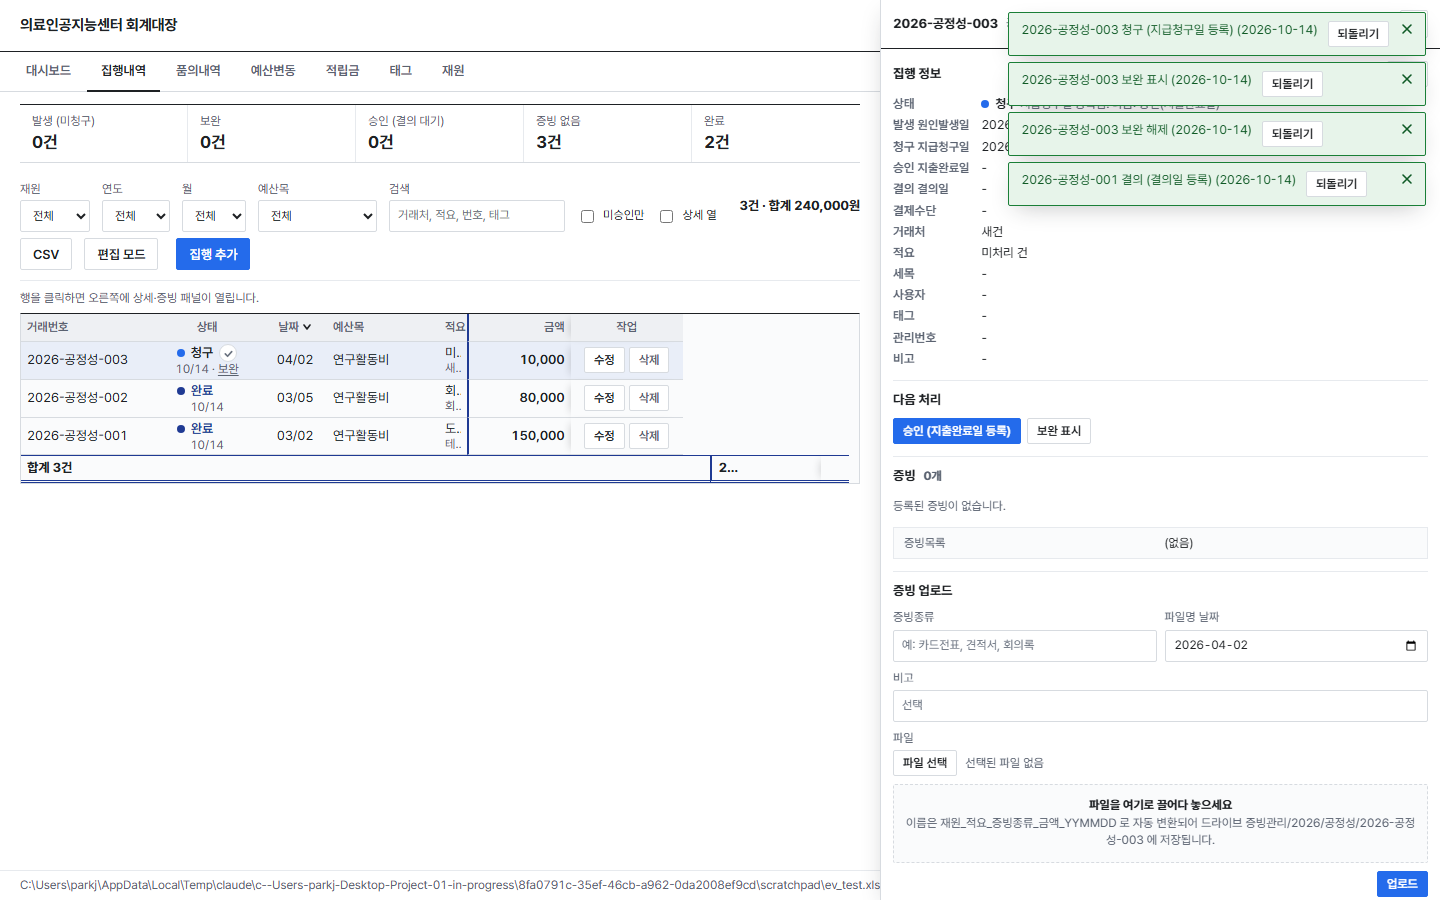
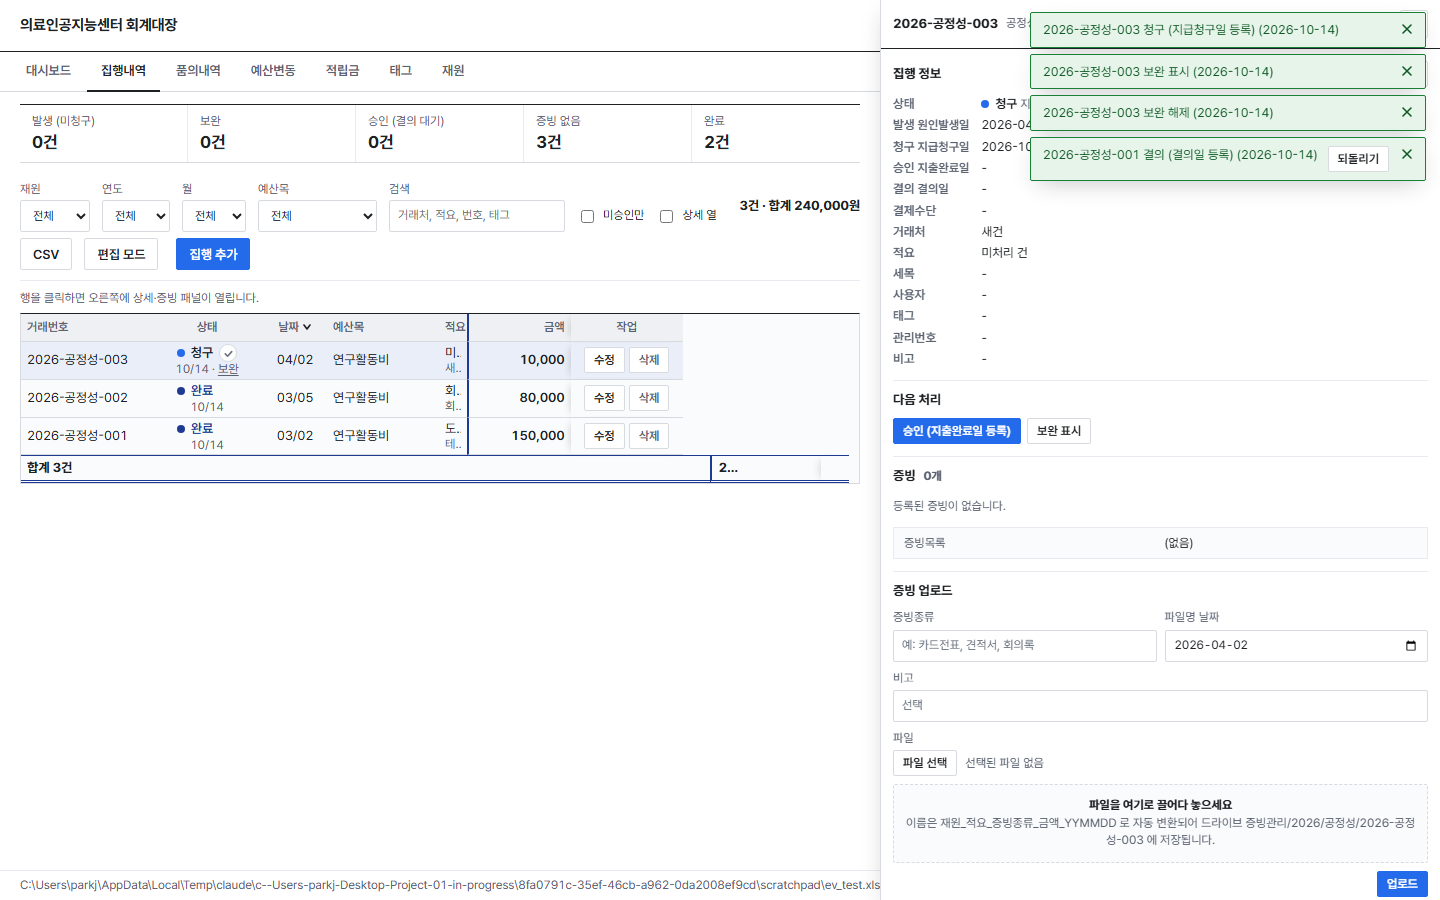
P0 수정: 폼 이중 제출 가드, 되돌리기 write_id 대조, 드로어 응답 경합 차단, 전체 행 스냅샷 충돌 검사, 탭 복귀 시 변경 감지
- store: LAST_WRITE.id, undo_last(write_id) 불일치 거부, _check_expect 가 expect._snapshot 전 열 비교
- main: X-Write-Id 응답 헤더, GET /api/meta
- app.js: api()가 write id 추적·이전 되돌리기 버튼 제거·한국어 오류, expectOf 스냅샷 포함, 폼/확정/일괄 생성 busy 가드, 드로어 seq, localStorage try/catch, visibilitychange 자동 새로고침
- style: --alert-deep 등 누락 토큰 정의

Changed region(s): [[0.6875, 0.0, 1.0, 0.2489]]

diff --git a/app/static/labor.js b/app/static/labor.js
@@ -197,10 +197,12 @@ function laborConfirm(row) {
 $("#dlg-pay-form").addEventListener("submit", async e => {
   e.preventDefault();
   const d = $("#dlg-pay"), row = Number(d.dataset.row), r = DATA.labor.find(x => x._row === row);
+  if (d.dataset.busy) return; d.dataset.busy = "1"; const payBtn = d.querySelector("button[type=submit]"); payBtn.disabled = true;
   try {
     const res = await api("POST", `/api/labor/${row}/action`, { action: "confirm", pay_date: $("#pay-date").value, expect: expectOf("labor", r) });
     d.close(); showAlert(`확정했습니다. 집행 ${res["연결거래번호"]} 생성`, "ok"); await load(); refreshCellDialog();
   } catch (err) { showAlert("확정 실패: " + err.message, "error"); }
+  finally { delete d.dataset.busy; payBtn.disabled = false; }
 });
 $("#dlg-pay-cancel").addEventListener("click", () => $("#dlg-pay").close());
 async function laborUnconfirm(row) {
@@ -307,7 +309,7 @@ $("#dlg-bulk-form").addEventListener("submit", async e => {
   const { out, dup } = bulkPlanRows();
   if (out.length > 1200) return showAlert("한 번에 1,200건까지만 생성할 수 있습니다.", "warn");
   if (dup.length === out.length) return showAlert("모든 건이 이미 있어 추가할 것이 없습니다.", "warn");
-  const btn = $("#bulk-save"); btn.disabled = true;
+  const btn = $("#bulk-save"); if (btn.disabled) return; btn.disabled = true;
   try { const res = await api("POST", "/api/labor/bulk", { rows: out, skip_dup: true }); $("#dlg-bulk").close(); showAlert(`예정 ${res.created}건을 추가했습니다.` + (res.skipped.length ? ` 이미 있는 ${res.skipped.length}건은 건너뛰었습니다.` : ""), "ok"); await load(); }
   catch (err) { showAlert("생성 실패: " + err.message, "error"); }
   finally { btn.disabled = false; }

diff --git a/app/static/style.css b/app/static/style.css
@@ -4,6 +4,7 @@
   --ink: #1E2124;
   --ink-2: #5A6270;
   --ink-3: #6B7380;
+  --alert-deep: #7A1710; --ok-deep: #0F5A26; --rule-hover: #B8BFC9; --dot-idle: #A3A9B3;
   --bg: #FFFFFF;
   --bg-table: #FAFBFC;
   --bg-head: #EEF0F3;

diff --git a/app/store.py b/app/store.py
@@ -3,6 +3,7 @@ from __future__ import annotations
 
 import contextlib
 import hashlib
+import uuid
 import datetime as dt
 import os
 import re
@@ -384,12 +385,19 @@ def _file_hash() -> str:
 LAST_WRITE: dict | None = None
 
 
-def undo_last() -> dict:
-    """직전 저장 직전의 백업으로 장부를 되돌린다. 이후 다른 변경(다른 창·MCP·엑셀)이 있으면 거부."""
+def last_write_id() -> str | None:
+    return LAST_WRITE.get("id") if LAST_WRITE else None
+
+
+def undo_last(write_id: str | None = None) -> dict:
+    """직전 저장 직전의 백업으로 장부를 되돌린다. 이후 다른 변경(다른 창·MCP·엑셀)이 있으면 거부.
+    write_id 가 오면 그 쓰기가 아직 '직전 쓰기'일 때만 되돌린다 (오래된 토스트가 다른 변경을 되돌리지 않도록)."""
     global LAST_WRITE
     with _lock, _file_lock():
         if not LAST_WRITE or not Path(LAST_WRITE["backup"]).exists():
             raise ValueError("되돌릴 직전 변경이 없습니다.")
+        if write_id and write_id != LAST_WRITE.get("id"):
+            raise ValueError("그 뒤에 다른 변경이 있어 이 변경은 되돌릴 수 없습니다. 필요하면 app/backup 의 백업 파일로 복원하세요.")
         if _file_hash() != LAST_WRITE["after"]:
             raise ValueError("그 뒤에 장부가 다시 바뀌어 되돌릴 수 없습니다. 목록을 새로고침하세요.")
         _check_writable()
@@ -419,7 +427,7 @@ def _save(wb):
     try:
         wb.save(tmp)
         os.replace(tmp, XLSX_PATH)
-        LAST_WRITE = {"backup": str(backup), "after": _file_hash(), "at": dt.datetime.now().isoformat(timespec="seconds")}
+        LAST_WRITE = {"backup": str(backup), "after": _file_hash(), "at": dt.datetime.now().isoformat(timespec="seconds"), "id": uuid.uuid4().hex[:12]}
     except PermissionError as e:
         tmp.unlink(missing_ok=True)
         raise LedgerLocked("장부 파일에 쓸 수 없습니다. 다른 프로그램에서 열려 있는지 확인하세요.") from e
@@ -568,13 +576,27 @@ def _ident(kind: str, rec: dict) -> dict:
     return {c: _cell_out(c, rec.get(c)) for c in IDENT_COLS[kind]}
 
 
+def _norm_cmp(c: str, v) -> str:
+    v = _cell_out(c, v)
+    if isinstance(v, float) and v.is_integer():
+        v = int(v)
+    return "" if v is None else str(v)
+
+
 def _check_expect(kind: str, existing: dict, expect: dict | None):
-    """클라이언트가 보던 행과 실제 행이 같은지 확인 (다른 창/MCP 에서 행이 밀린 경우 감지)."""
+    """클라이언트가 보던 행과 실제 행이 같은지 확인 (다른 창/MCP 에서 행이 밀리거나 내용이 바뀐 경우 감지).
+    expect 에 _snapshot(행 전체)이 있으면 모든 열을 비교해 '덮어쓰기'를 막는다."""
     if not expect:
         return
     for c in IDENT_COLS[kind]:
         if c in expect and _cell_out(c, expect[c]) != existing.get(c):
             raise NotFound("다른 곳에서 장부가 바뀌어 행이 일치하지 않습니다. 새로고침 후 다시 시도하세요.")
+    snap = expect.get("_snapshot")
+    if isinstance(snap, dict):
+        cols = _SHEETS[kind][1]
+        changed = [c for c in cols if c in snap and c != "상태" and _norm_cmp(c, snap[c]) != _norm_cmp(c, existing.get(c))]
+        if changed:
+            raise NotFound(f"다른 곳에서 이 행의 {', '.join(changed[:3])} 이(가) 먼저 바뀌었습니다. 새로고침한 뒤 다시 수정하세요.")
 
 
 def _labor_refs(wb) -> set[str]:

diff --git a/app/main.py b/app/main.py
@@ -63,9 +63,27 @@ def labor_page():
 
 
 @app.post("/api/undo")
-def undo_last():
-    """직전 저장을 되돌림 (삭제·확정 취소·상태 변경 토스트의 '되돌리기')."""
-    return store.undo_last()
+def undo_last(body: dict | None = None):
+    """직전 저장을 되돌림 (삭제·확정 취소·상태 변경 토스트의 '되돌리기'). body.write_id 가 직전 쓰기와 다르면 거부."""
+    return store.undo_last((body or {}).get("write_id"))
+
+
+@app.get("/api/meta")
+def meta():
+    """가벼운 상태 확인: 파일 수정 시각 (다른 창·MCP 변경 감지용)."""
+    import datetime as _dt
+    return {"mtime": _dt.datetime.fromtimestamp(store.XLSX_PATH.stat().st_mtime).isoformat(timespec="seconds"), "write_id": store.last_write_id()}
+
+
+@app.middleware("http")
+async def _write_id_header(request: Request, call_next):
+    """쓰기 요청 뒤 직전 쓰기 ID를 헤더로 전달 (토스트 '되돌리기'가 자기 변경만 되돌리도록)."""
+    response = await call_next(request)
+    if request.method in ("POST", "PUT", "DELETE") and request.url.path.startswith("/api/"):
+        wid = store.last_write_id()
+        if wid:
+            response.headers["X-Write-Id"] = wid
+    return response
 
 
 @app.post("/api/exec/batch")
